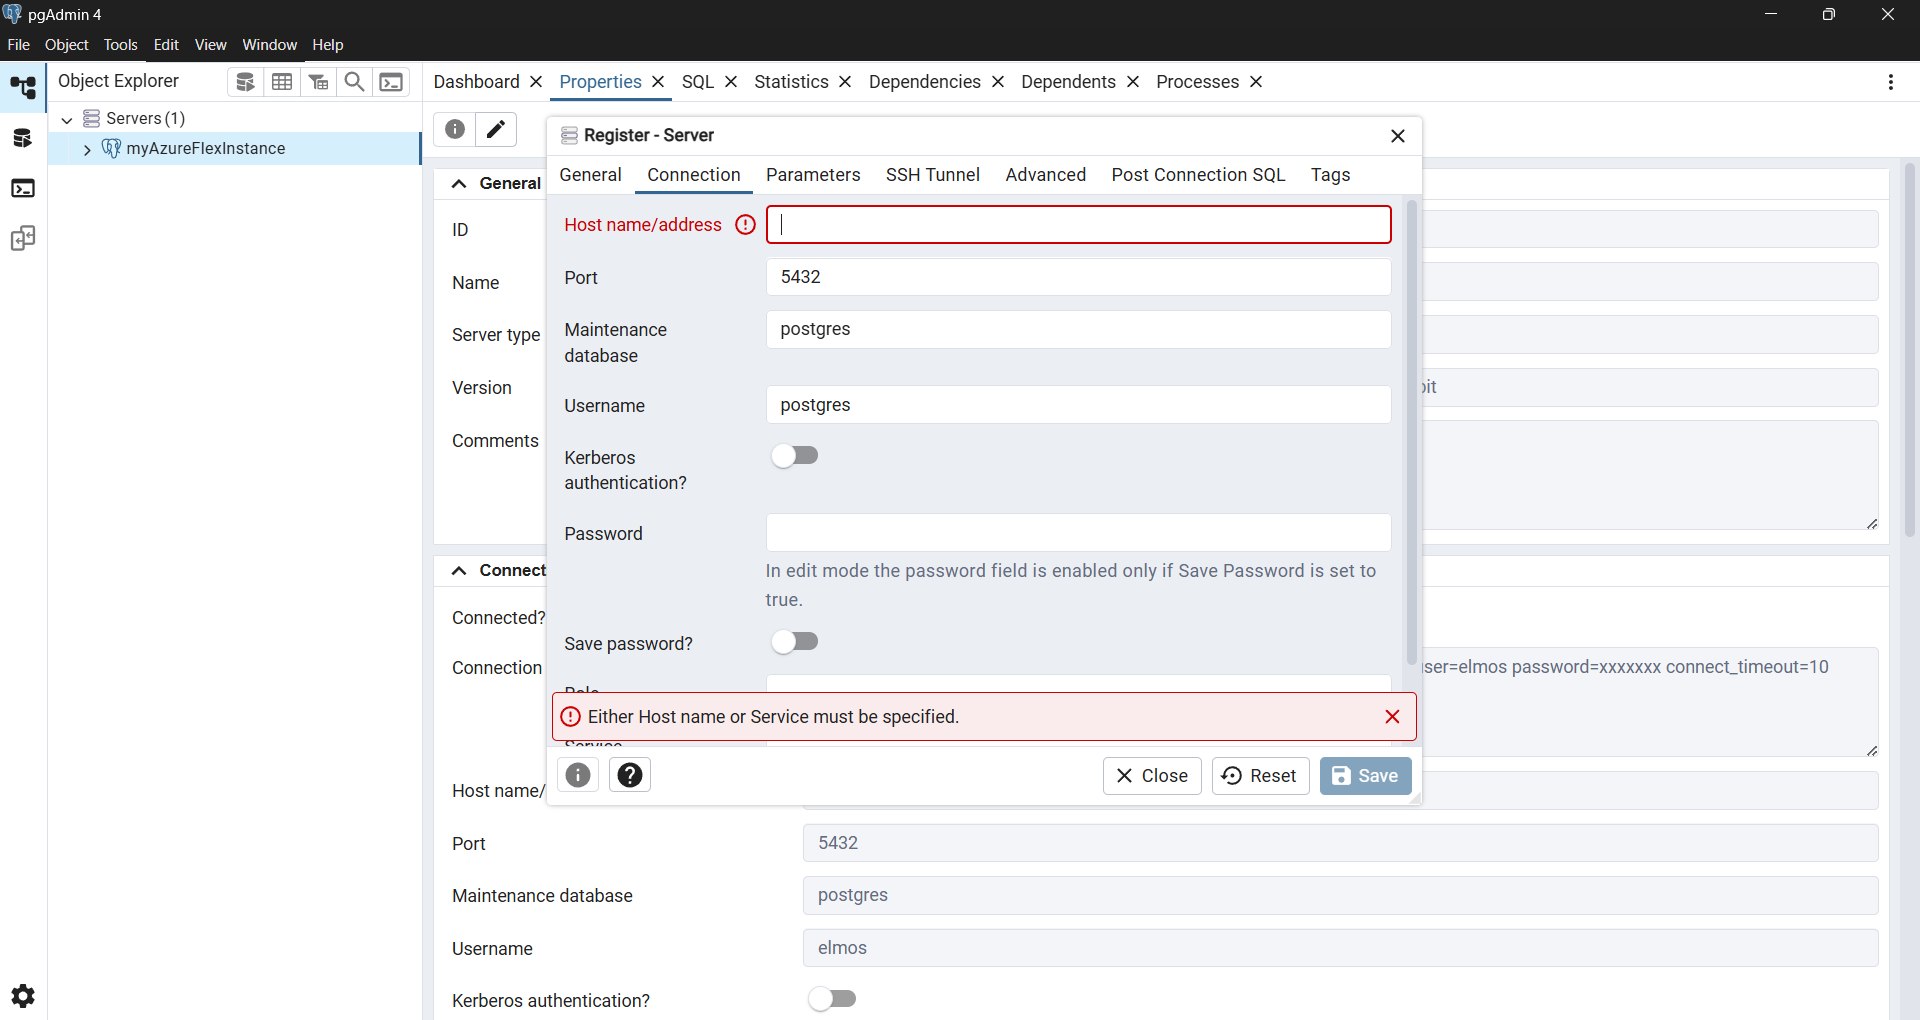
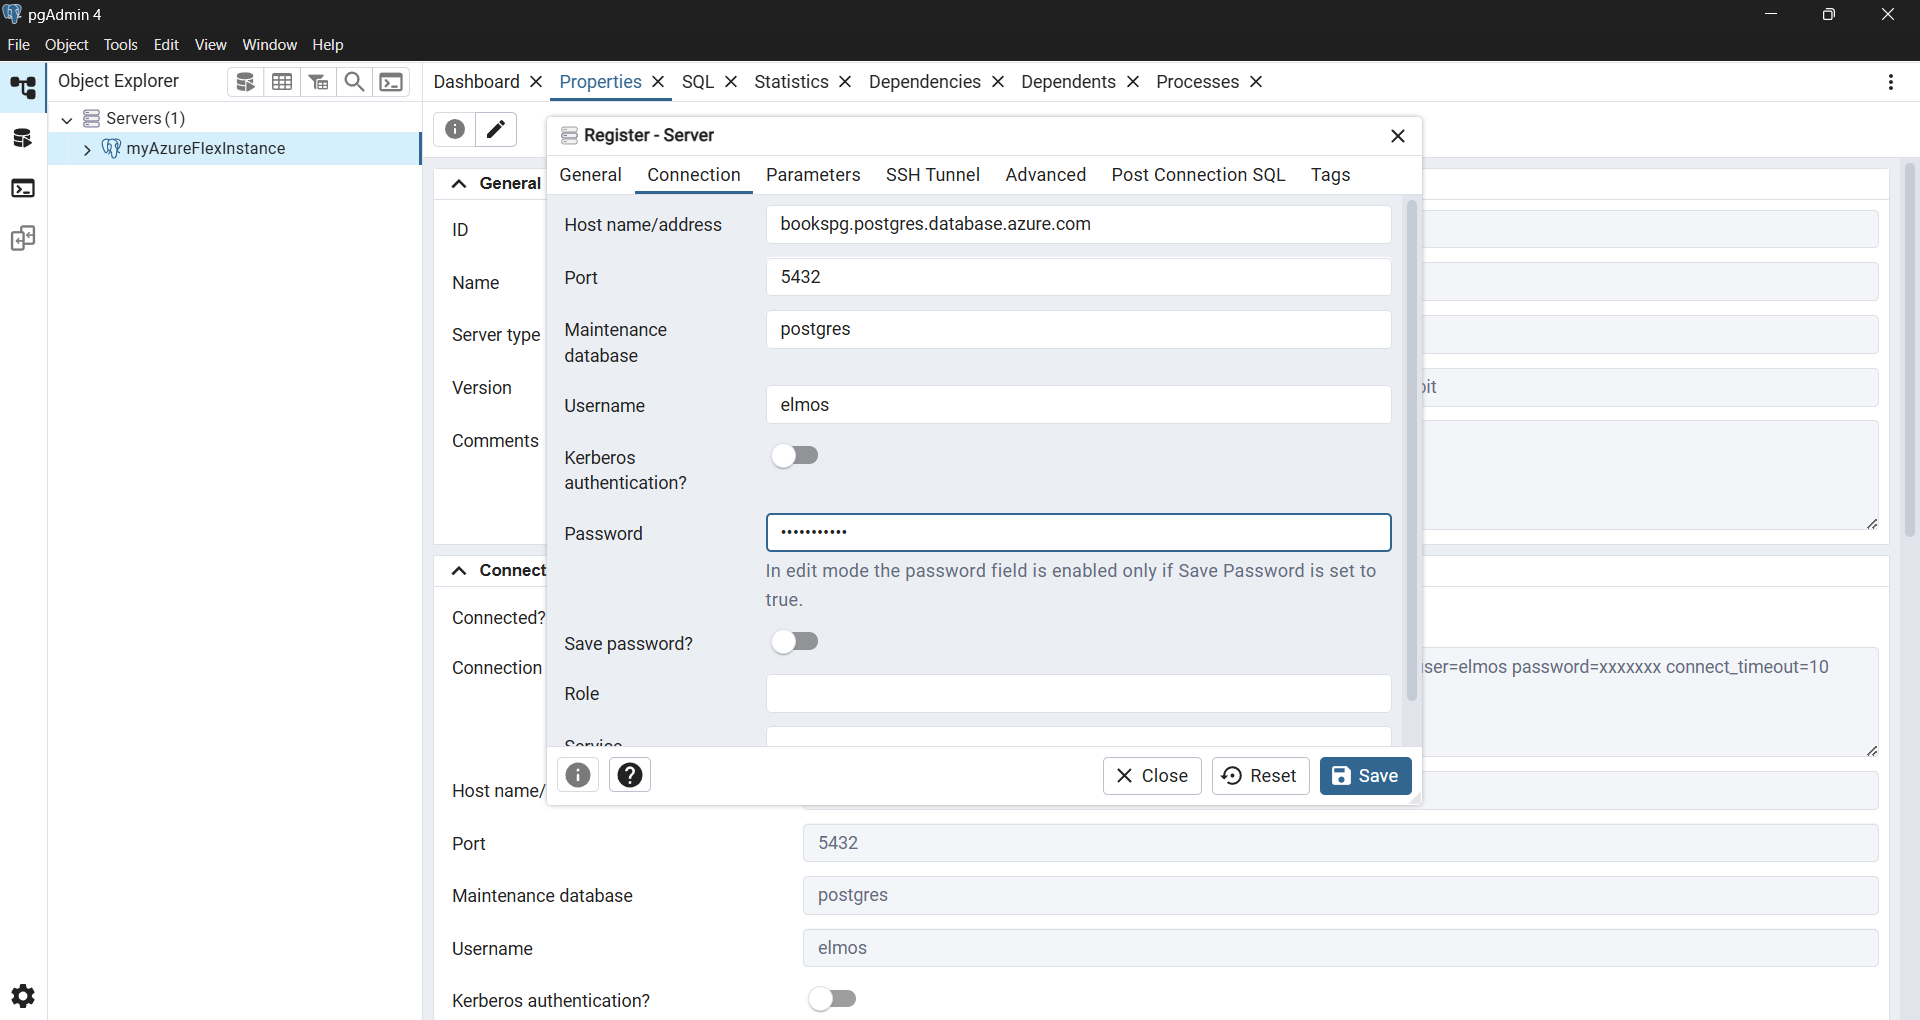
readme update

diff --git a/README.md b/README.md
@@ -11,9 +11,18 @@
     macOS: https://www.postgresql.org/ftp/pgadmin/pgadmin4/v9.10/macos/
 - register database server
 <p align="center">
-  <img src="img/registerServer.png" alt="Synth Interface Preview" width="600"/><br>
-  <img src="img/registerServerGeneral.png" alt="Synth Interface Preview" width="600"/><br>
-  <img src="img/registerServerConnection.png" alt="Synth Interface Preview" width="600"/><br>
+  <img src="img/registerServer.png" alt="Synth Interface Preview" width="600"/>
 </p>
+<p align="center">
+    <img src="img/registerServerGeneral.png" alt="Synth Interface Preview" width="600"/>
+</p>
+    **hostname**: bookspg.postgres.database.azure.com
+    **port**: 5462
+    **username**: elmos
+    **password**: booksPrj123
+<p align="center">
+    <img src="img/registerServerConnection.png" alt="Synth Interface Preview" width="600"/>
+</p>
+
 - click save
 
